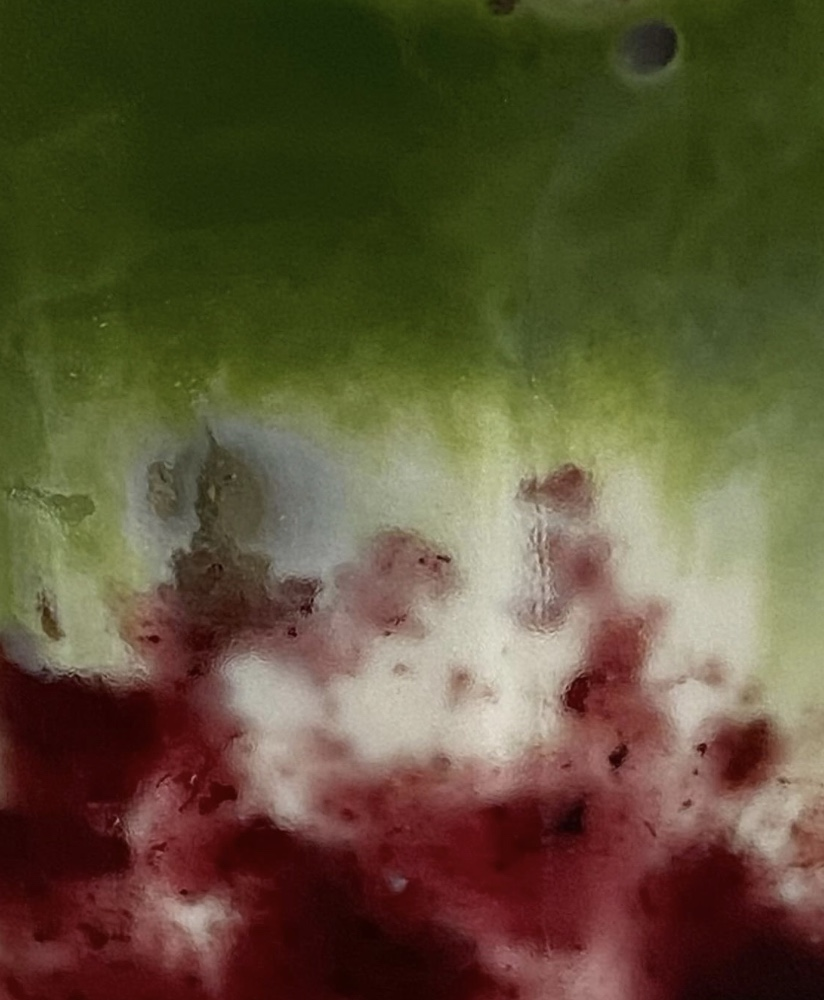
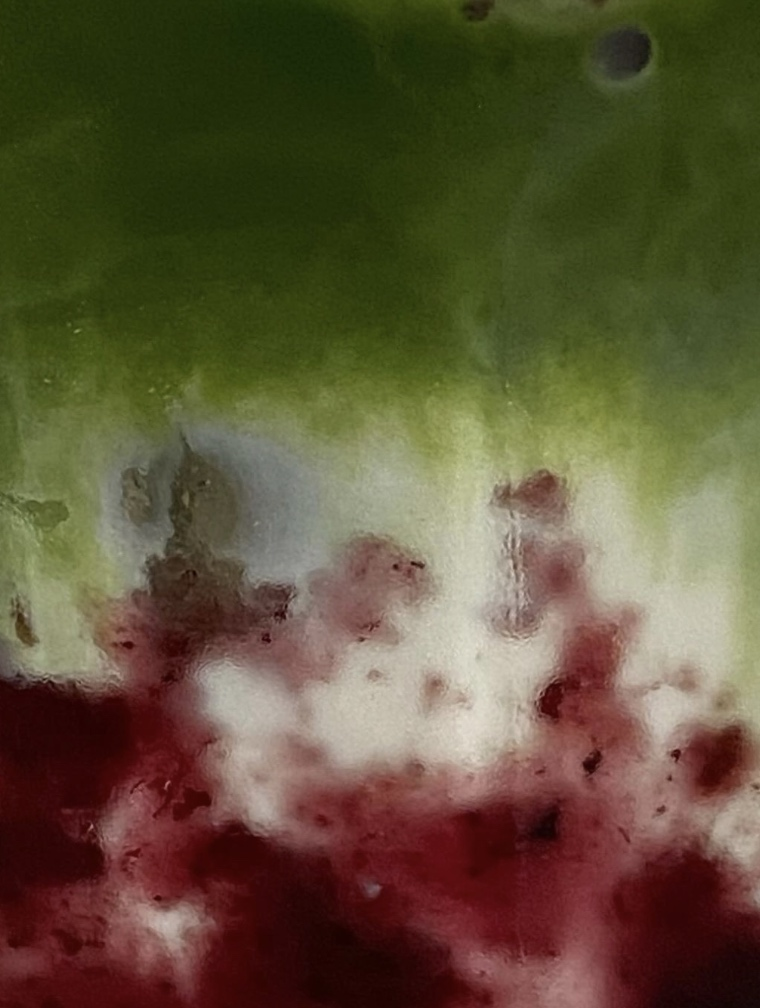
Use the macro as the sachets canvas, untouched
The wrong photograph was on the canvas — "the big one" read as the latte
shot, and the frame meant was the close one, matcha settling through milk
into strawberry. It is the frame as sent: no crop, no saturation, no
contrast, only the JPEG encode.

It bleeds off the right edge at the full height of the fold with nothing
over it, and the closing cell of the catalogue goes back to type alone
rather than showing the same picture twice on one page.

diff --git a/src/pages/Matchas.jsx b/src/pages/Matchas.jsx
@@ -42,14 +42,17 @@ export default function Matchas() {
           the nature of the thing: a scrim dark enough to carry cream type is
           dark enough to grey out a photograph. Keeping the words off the
           picture is what lets the picture stay at full strength, and the type
-          goes back to cocoa on camel, which is 8.5:1 without any help. */}
+          goes back to cocoa on camel, which is 8.5:1 without any help.
+
+          The frame is the one that was sent, byte for byte apart from the JPEG
+          encode: no crop, no saturation, no contrast. */}
       <section className="relative isolate overflow-hidden bg-camel">
         <div aria-hidden className="absolute inset-y-0 right-0 -z-10 hidden lg:block">
           <img
-            src={photos.latteStrawberry.src}
+            src={photos.layersMacro.src}
             alt=""
-            width={photos.latteStrawberry.width}
-            height={photos.latteStrawberry.height}
+            width={photos.layersMacro.width}
+            height={photos.layersMacro.height}
             fetchPriority="high"
             className="h-full w-auto max-w-none"
           />
@@ -74,10 +77,10 @@ export default function Matchas() {
           {/* Narrow screens have no room beside the type, so the same
               photograph runs under it, still whole. */}
           <img
-            src={photos.latteStrawberry.src}
-            alt={photos.latteStrawberry.alt}
-            width={photos.latteStrawberry.width}
-            height={photos.latteStrawberry.height}
+            src={photos.layersMacro.src}
+            alt={photos.layersMacro.alt}
+            width={photos.layersMacro.width}
+            height={photos.layersMacro.height}
             className="mt-12 h-auto w-full lg:hidden"
           />
         </div>
@@ -172,23 +175,20 @@ export default function Matchas() {
                   transition={{ duration: 0.5, ease: [0.22, 1, 0.36, 1] }}
                   className={visible.length % 3 === 1 ? 'lg:mt-24' : ''}
                 >
-                  <div className="flex h-full flex-col">
-                    <Photo photo={photos.layersMacro} className="aspect-[4/5] w-full" />
-                    <div className="rule mt-5 flex flex-1 flex-col justify-between gap-8 pt-4">
-                      <div>
-                        <span className="index-num">Not sure yet</span>
-                        <h3 className="mt-3 font-display text-lg tracking-display">
-                          Start with one of each
-                        </h3>
-                        <p className="mt-2 font-body text-sm leading-relaxed text-bark">
-                          The Discovery Pack is five sachets, one of every flavour — the shortest
-                          way to find which one you actually reach for.
-                        </p>
-                      </div>
-                      <Link to="/matcha-kits" className="link-draw font-mono text-spec uppercase">
-                        See the bundles
-                      </Link>
+                  <div className="rule-heavy flex h-full flex-col justify-between gap-8 pt-6">
+                    <div>
+                      <span className="index-num">Not sure yet</span>
+                      <h3 className="mt-4 max-w-xs font-display text-minor tracking-display">
+                        Start with one of each
+                      </h3>
+                      <p className="mt-4 max-w-sm font-body text-sm leading-relaxed text-bark">
+                        The Discovery Pack is five sachets, one of every flavour, for the price of
+                        finding out which one you actually reach for.
+                      </p>
                     </div>
+                    <Link to="/matcha-kits" className="btn self-start">
+                      See the bundles
+                    </Link>
                   </div>
                 </motion.div>
               )}

diff --git a/src/data/photos.js b/src/data/photos.js
@@ -67,8 +67,8 @@ export const photos = {
   },
   layersMacro: {
     src: layersMacro,
-    width: 824,
-    height: 1000,
+    width: 760,
+    height: 1008,
     alt: 'A close view through the side of a glass: matcha settling down through milk into crushed strawberry',
   },
   glassesOverhead: {
